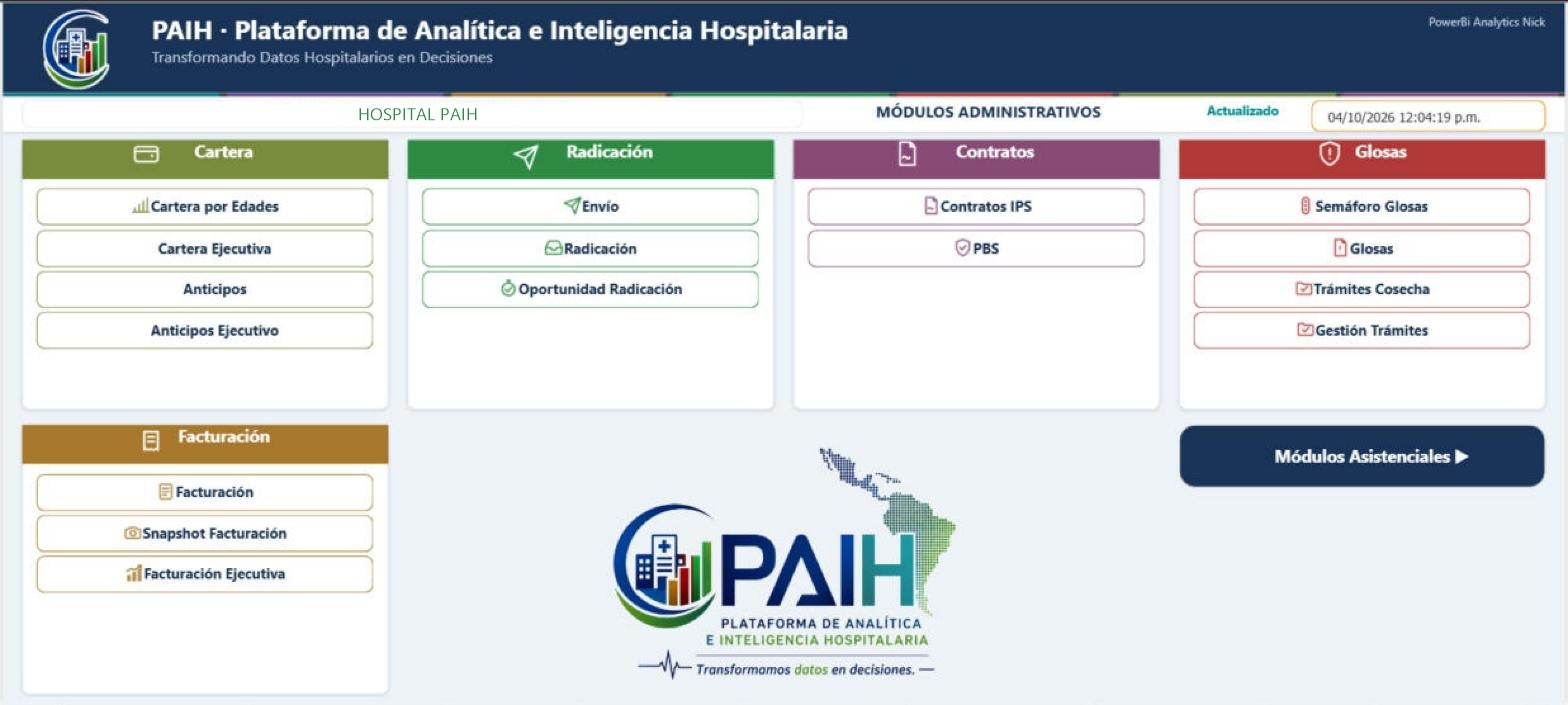
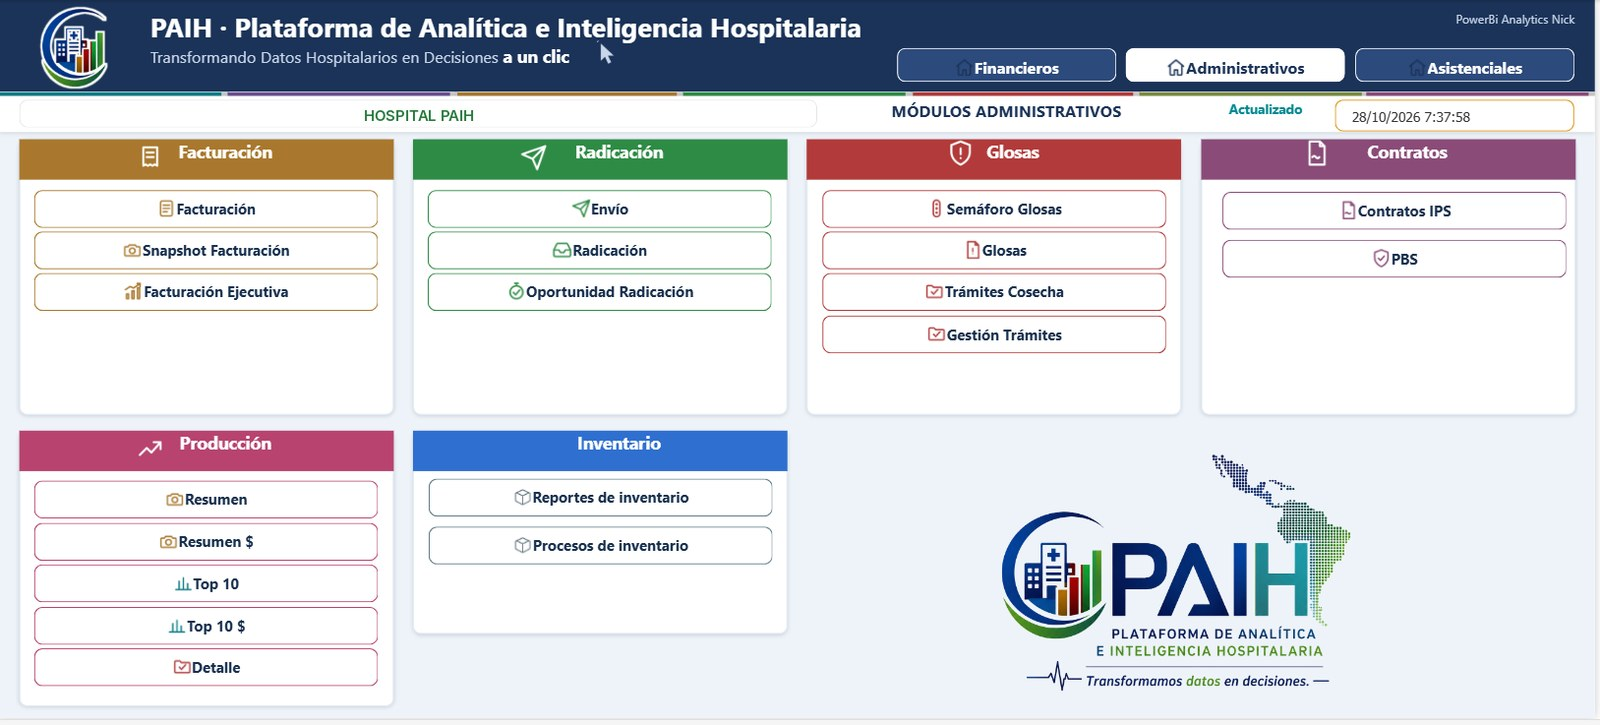
Nuevo menú: imágenes actualizadas (asistenciales, administrativos) y menú financieros en la historia
Claude-Session: https://claude.ai/code/session_01LZsR8SjRkSgseW9VD2TX7D

diff --git a/index.html b/index.html
@@ -1616,7 +1616,8 @@ const MODULES = [
     { label: "Nuevo menú", color: "#0E7C86", icon: `<svg viewBox="0 0 24 24" fill="none" stroke="currentColor" stroke-width="1.8" stroke-linecap="round" stroke-linejoin="round"><rect x="3" y="3" width="7" height="7" rx="1.5"/><rect x="14" y="3" width="7" height="7" rx="1.5"/><rect x="3" y="14" width="7" height="7" rx="1.5"/><rect x="14" y="14" width="7" height="7" rx="1.5"/></svg>`, isNew: true, slides: [
       { img: "img/historias/nuevas/nuevo-menu.jpg" },
       { img: "img/lienzos/menu_asistenciales.jpg" },
-      { img: "img/lienzos/menu_administrativos.jpg" }
+      { img: "img/lienzos/menu_administrativos.jpg" },
+      { img: "img/lienzos/menu_financieros.jpg" }
     ] },
     { label: "Interconsultas", color: "#E0A21A", icon: `<svg viewBox="0 0 24 24" fill="none" stroke="currentColor" stroke-width="1.8" stroke-linecap="round" stroke-linejoin="round"><rect x="5" y="4" width="14" height="17" rx="2"/><path d="M9 4V3h6v1"/><path d="M12 10v6M9 13h6"/></svg>`, isNew: true, slides: [
       { img: "img/lienzos/interconsultas_resumen.jpg" },
